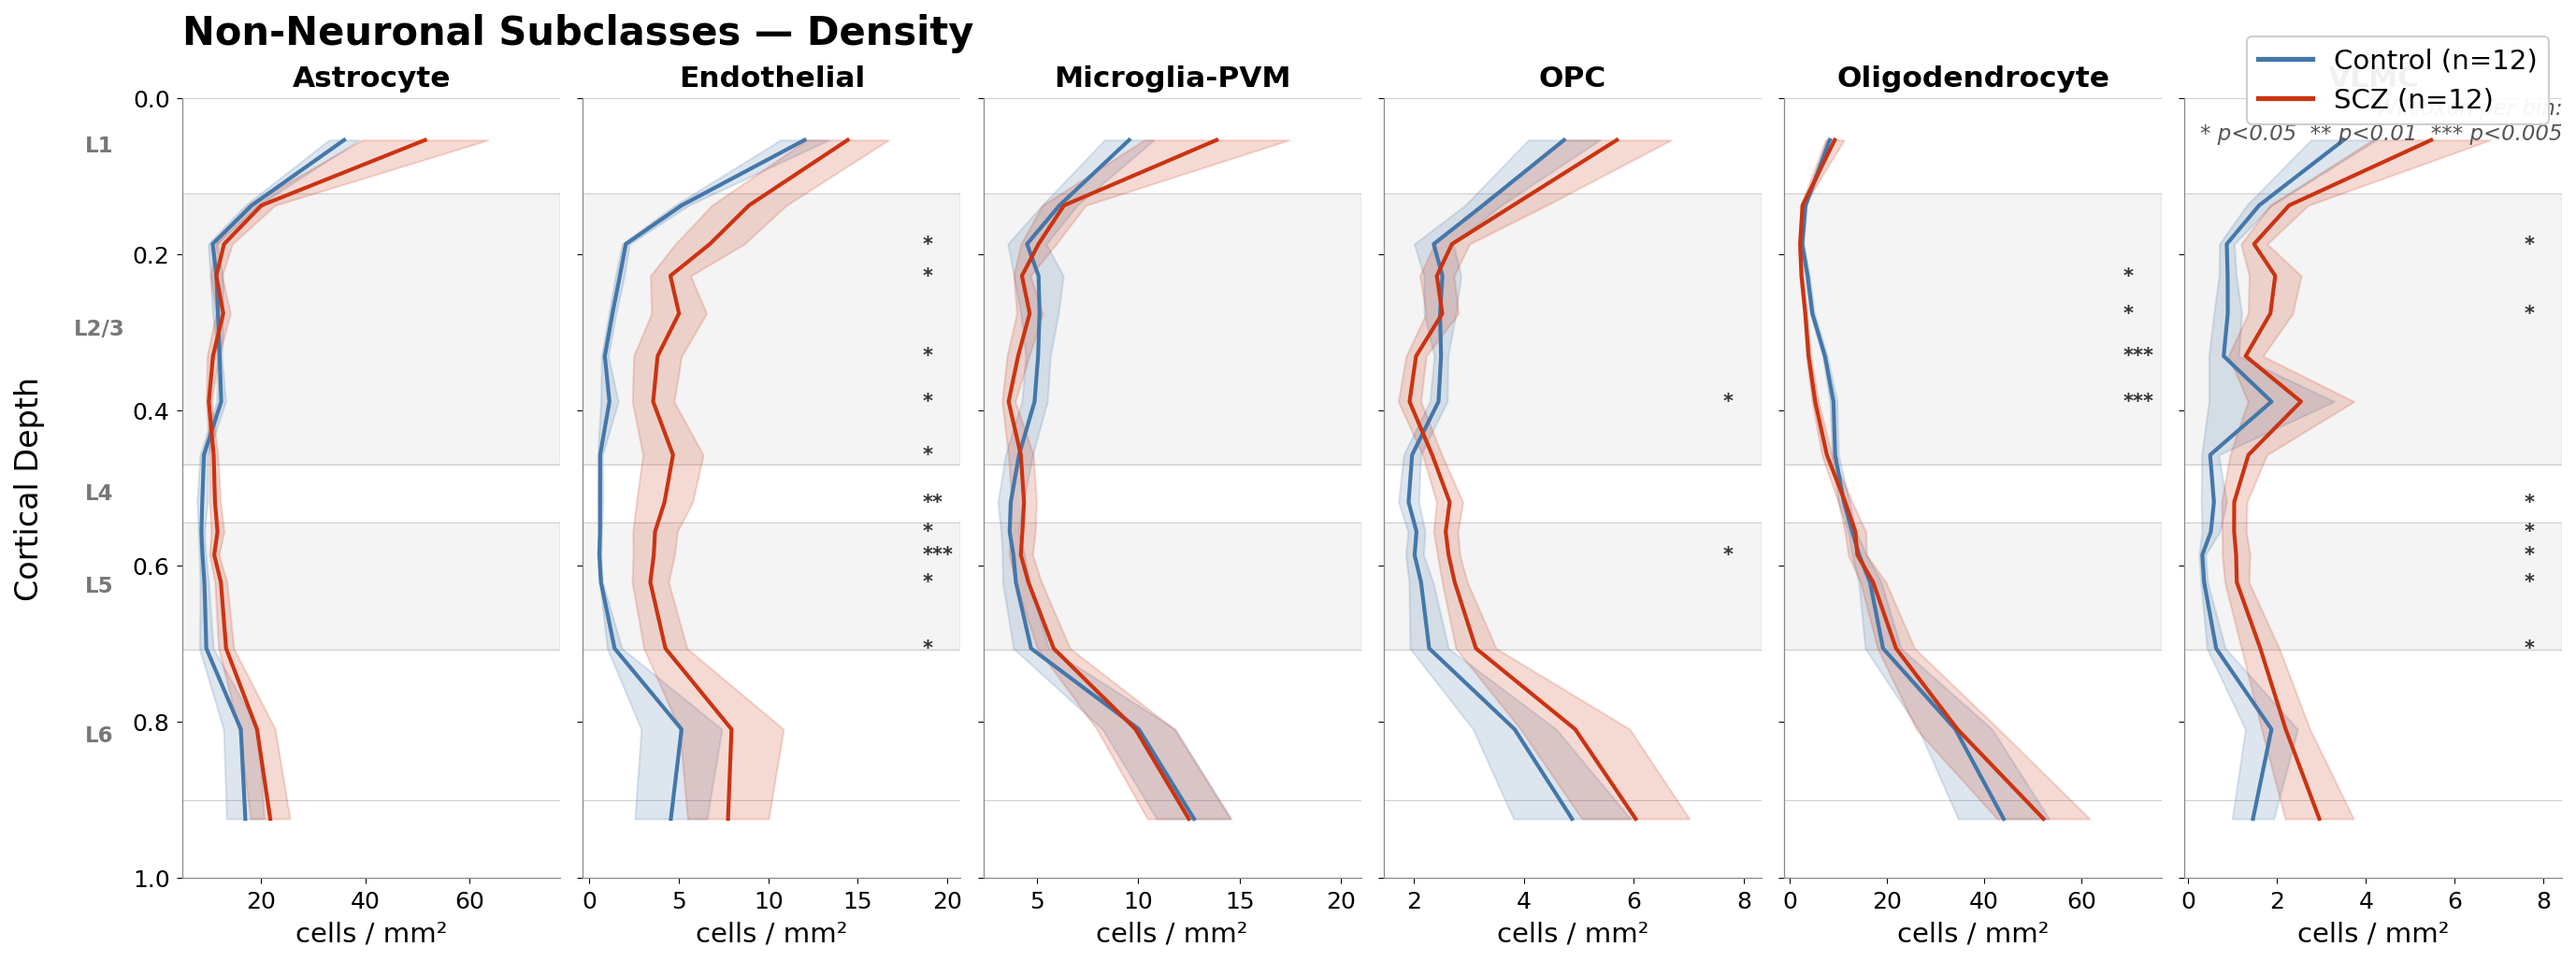
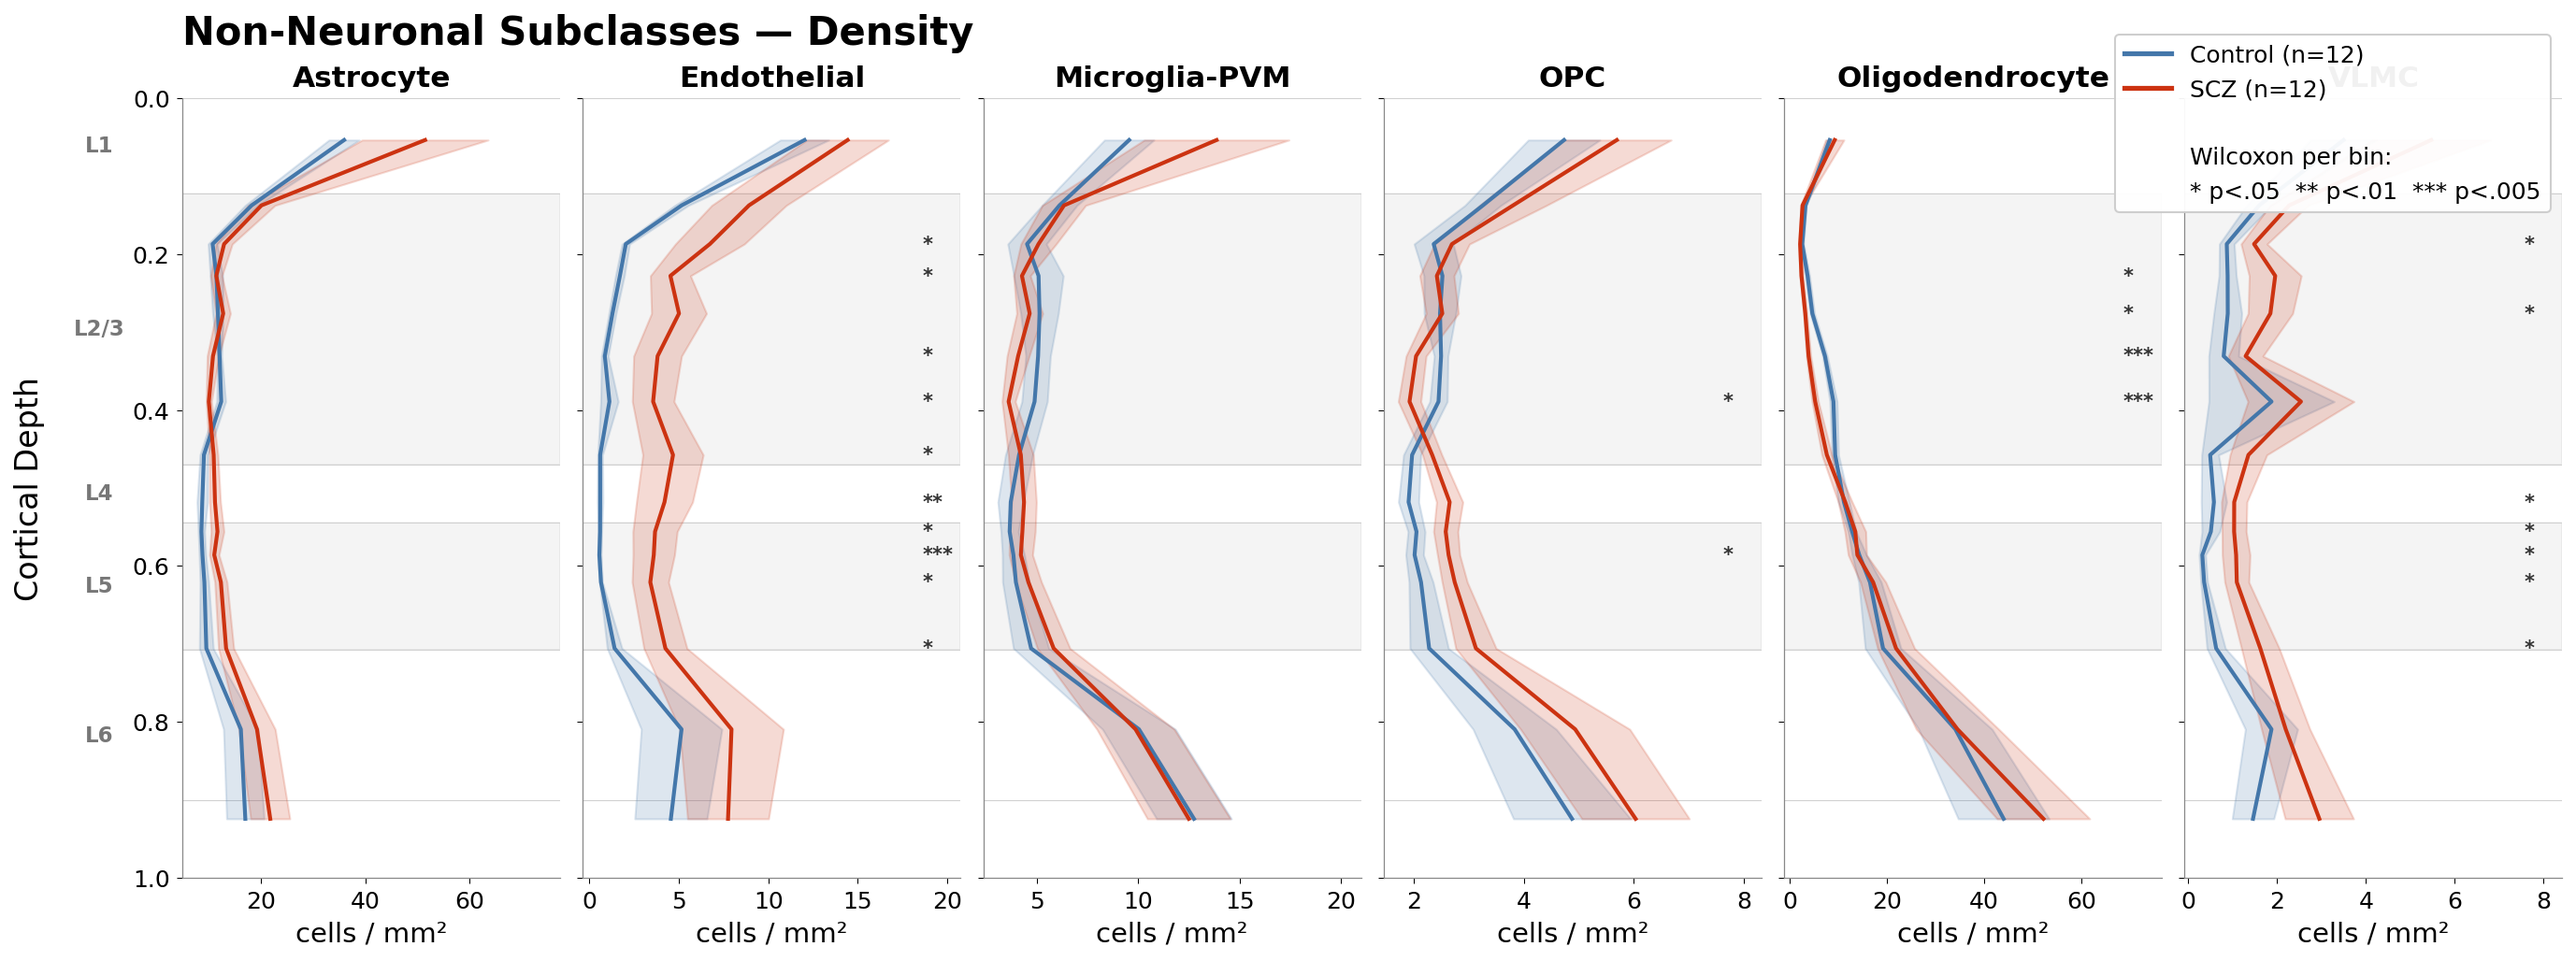
Add neuronal depth profiles to SCZ findings, fix legend overlap
Add neuronal proportion and density depth profile figures (Figures 10-11)
to scz_compositional_findings.md, showing preserved neuronal laminar
architecture in SCZ. Fix legend/significance key overlap in all depth
profile plots by combining them into a single legend box.

Changed region(s): [[0.8116, 0.0311, 0.9989, 0.2179]]

diff --git a/code/analysis/plot_depth_profiles_clean.py b/code/analysis/plot_depth_profiles_clean.py
@@ -248,20 +248,19 @@ def make_figure(depth_df, celltypes, class_label, class_filter, filename,
                         class_filter=class_filter,
                         metric=metric)
 
-    # Legend
+    # Legend + significance key combined
     legend_elements = [
         Line2D([0], [0], color=CTRL_COLOR, lw=2.5, label="Control (n=12)"),
         Line2D([0], [0], color=SCZ_COLOR, lw=2.5, label="SCZ (n=12)"),
+        Line2D([0], [0], color="none", label=""),  # spacer
+        Line2D([0], [0], color="none",
+               label="Wilcoxon per bin:"),
+        Line2D([0], [0], color="none",
+               label="* p<.05  ** p<.01  *** p<.005"),
     ]
     fig.legend(handles=legend_elements, loc="upper right",
-              fontsize=14, framealpha=0.95, edgecolor="#cccccc",
+              fontsize=12, framealpha=0.95, edgecolor="#cccccc",
               bbox_to_anchor=(0.97, 0.99))
-
-    # Significance key as text annotation
-    fig.text(0.97, 0.91,
-             "Wilcoxon per bin:\n* p<0.05  ** p<0.01  *** p<0.005",
-             fontsize=11, ha="right", va="top", color="#555555",
-             fontstyle="italic")
 
     title_suffix = "Proportion" if metric == "pct" else "Density"
     fig.suptitle(f"{class_label} — {title_suffix}",

diff --git a/scz_compositional_findings.md b/scz_compositional_findings.md
@@ -90,10 +90,18 @@ The depth-stratified analysis reveals that oligodendrocyte depletion is not unif
 - 22/23 subclasses have significant depth main effects (FDR < 0.05)
 - Whatever drives SCZ compositional changes operates on the non-neuronal compartment
 
+The neuronal depth profiles confirm this — SCZ and Control curves largely overlap across all neuronal subclasses, with only scattered nominally significant bins that do not survive correction:
+
+![Neuronal depth profiles — proportion](output/depth_proportions/depth_profiles_neuronal.png)
+*Figure 10: Neuronal subclass depth profiles (% of neuronal class). SCZ (red) vs Control (blue). No neuronal subclass shows systematic SCZ–Control separation, in contrast to the non-neuronal compartment.*
+
+![Neuronal depth profiles — density](output/depth_proportions/depth_density_neuronal.png)
+*Figure 11: Neuronal subclass density profiles (cells/mm²). Scattered nominal significance (Pvalb, Sst, L6 CT) but no subclass shows the sustained multi-bin separation seen for oligodendrocytes or endothelial cells.*
+
 The layer-specific density heatmap shows the full pattern of SCZ effects across all subclasses and layers:
 
 ![Layer heatmap — density](output/depth_proportions/layer_heatmap_density_per_mm2_vertical.png)
-*Figure 10: Layer-specific density changes (log₂FC, SCZ vs Control). Layers on y-axis, pia at top. Oligodendrocyte depletion strongest in L2/3. Endothelial increases across multiple layers. See [Depth-Stratified Analysis Report](output/depth_proportions/DEPTH_STRATIFIED_ANALYSIS_REPORT.md) for full per-layer model results.*
+*Figure 12: Layer-specific density changes (log₂FC, SCZ vs Control). Layers on y-axis, pia at top. Oligodendrocyte depletion strongest in L2/3. Endothelial increases across multiple layers. See [Depth-Stratified Analysis Report](output/depth_proportions/DEPTH_STRATIFIED_ANALYSIS_REPORT.md) for full per-layer model results.*
 
 ### 2.2 Moderate-confidence findings (subclass/supertype level)
 
@@ -106,7 +114,7 @@ These show consistent trends but do not reach FDR significance in all analyses:
 
 **Endothelial density increase:**
 - Widespread density increases across L2/3–L5 (multiple nominal p < 0.01)
-- Consistent direction across layers (visible in Figures 9 and 10), but no individual test survives FDR
+- Consistent direction across layers (visible in Figures 9 and 12), but no individual test survives FDR
 
 **L6b subclass increase:**
 - All L6b supertypes (L6b_1–L6b_6) aggregated at subclass level show increased proportion and density in SCZ
